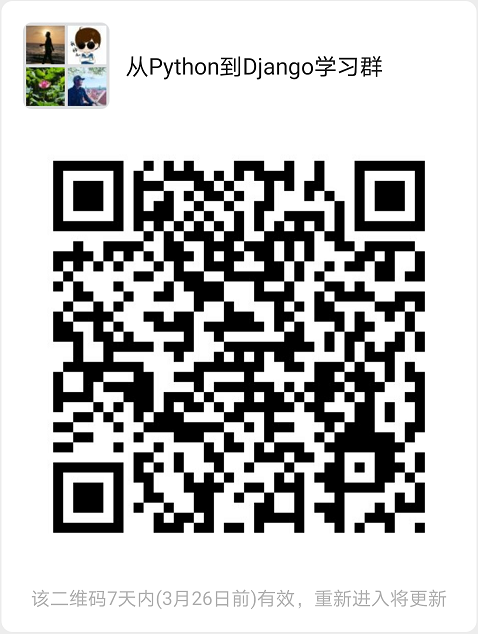
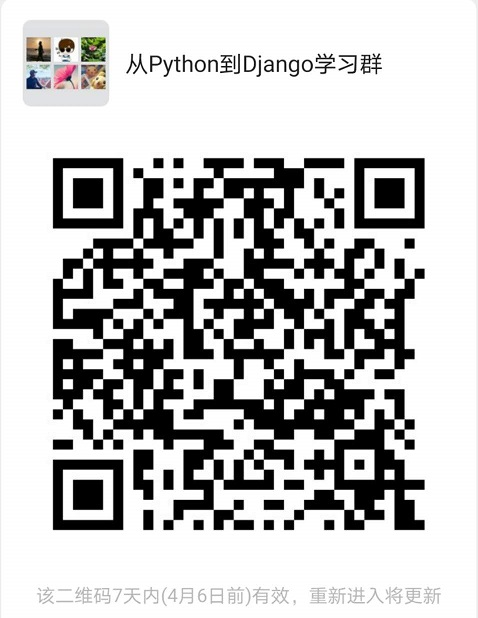
更新二维码

diff --git a/README.md b/README.md
@@ -54,7 +54,7 @@ Django是一个开放源代码的Web应用框架，由Python写成。采用了MV
 
 更多关于Python以及Django的讨论，尤其是使用Django开发微信相关应用的技术，请使用微信扫描二维码加群。
 
-![](./wechat.jpg)
+![](./wechat.png)
 
 本书托管在[GitHub](https://github.com/borisliu/from-python-to-django)，
 如果有问题请在线[提交](https://github.com/borisliu/from-python-to-django/issues)。
